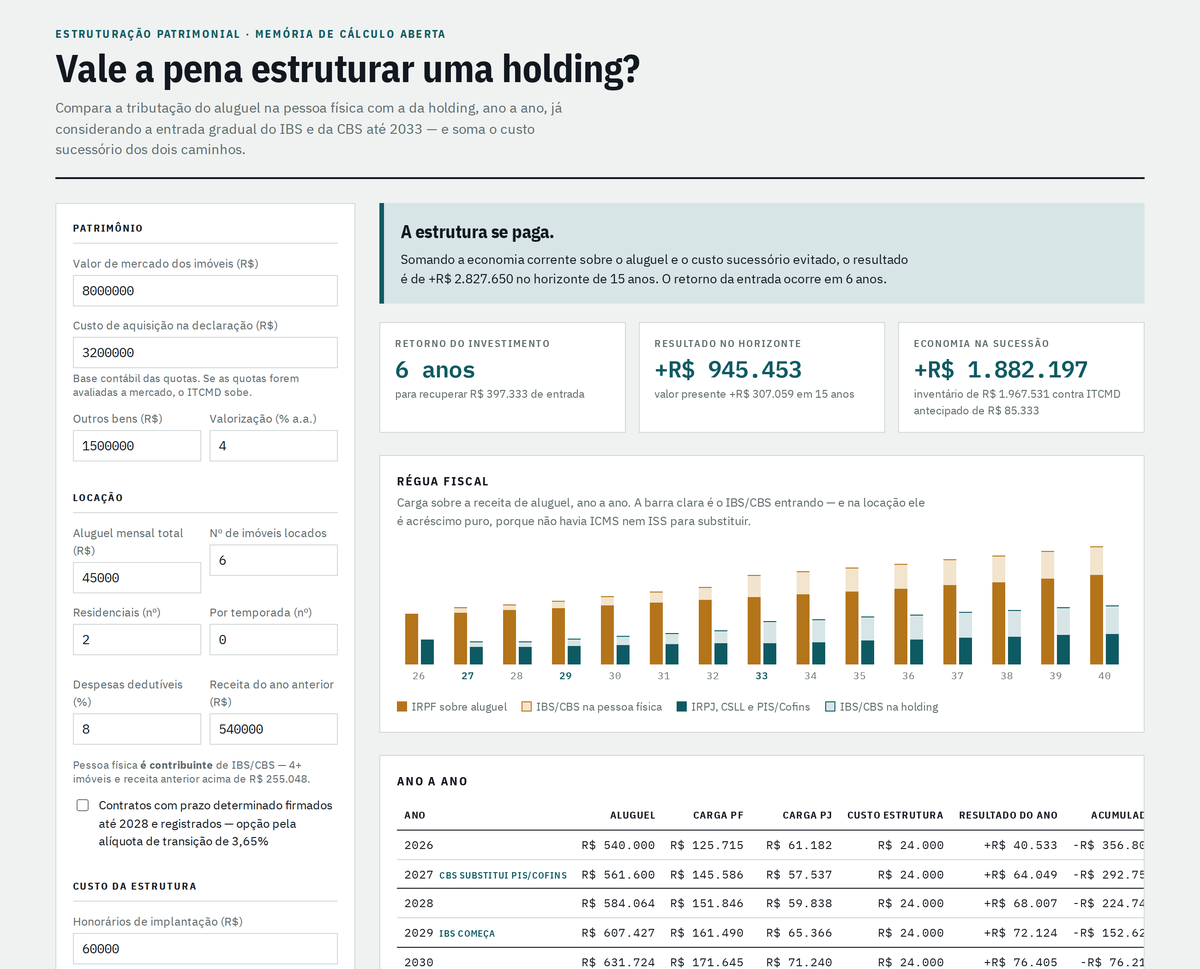
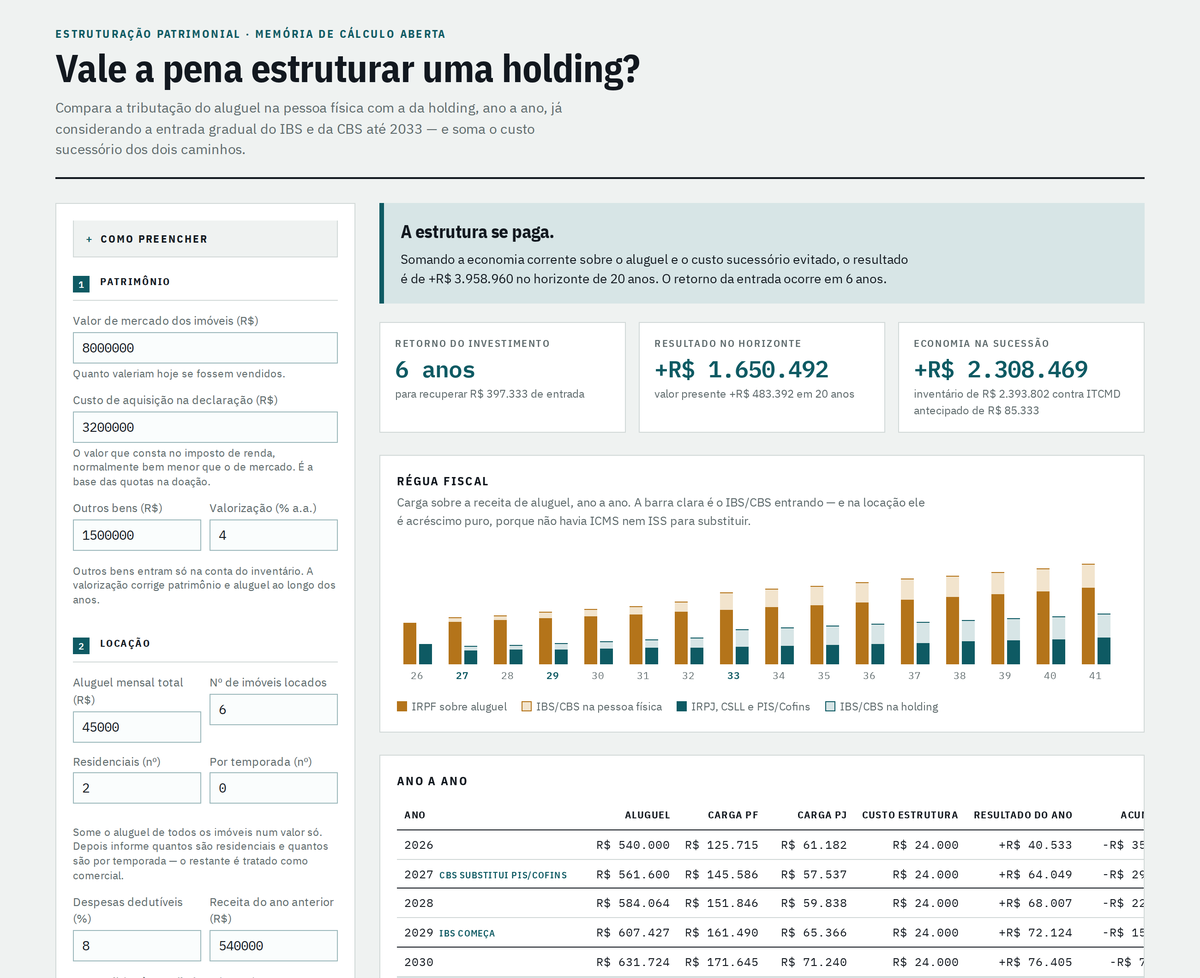
Guias e explicações dos campos

diff --git a/index.html b/index.html
@@ -71,13 +71,30 @@ legend{
   text-transform:uppercase;color:var(--ink);padding:0 0 8px;
   border-bottom:1px solid var(--rule);width:100%;margin-bottom:12px
 }
+legend .num{
+  display:inline-flex;align-items:center;justify-content:center;width:18px;height:18px;
+  background:var(--petrol);color:#fff;font-family:var(--mono);font-size:10px;font-weight:600;
+  margin-right:8px;vertical-align:-3px;letter-spacing:0
+}
 .field{margin-bottom:11px}
 .field label{display:block;font-size:12.5px;color:var(--muted);margin-bottom:3px}
 .field input[type=number],.field select{
-  width:100%;padding:7px 9px;border:1px solid var(--rule);background:var(--surface);
+  width:100%;padding:7px 9px;border:1px solid #9DB9BC;background:#FAFDFD;
   font-family:var(--mono);font-size:14px;color:var(--ink);border-radius:0
 }
 .field input:focus,.field select:focus{outline:2px solid var(--petrol);outline-offset:-1px}
+/* premissas: já vêm preenchidas, aparência neutra */
+fieldset.preset legend .num{background:var(--muted)}
+fieldset.preset .field input{border:1px dashed var(--rule);background:var(--paper);color:var(--muted)}
+fieldset.preset .field input:focus{color:var(--ink);background:var(--surface)}
+.presetnote{
+  font-size:12px;color:var(--muted);background:var(--paper);
+  border-left:3px solid var(--rule);padding:8px 10px;margin:0 0 12px;line-height:1.4
+}
+.guide{margin:0 0 18px;border:1px solid var(--rule);background:var(--paper);padding:11px 13px}
+.guide summary{font-family:var(--cond);font-weight:700;font-size:11.5px;letter-spacing:.1em;text-transform:uppercase}
+.guide ol{margin:10px 0 0;padding-left:20px;font-size:12.5px;color:var(--muted);line-height:1.55}
+.guide li{margin-bottom:6px}
 .duo{display:grid;grid-template-columns:1fr 1fr;gap:9px}
 .check{display:flex;gap:8px;align-items:flex-start;margin-bottom:10px;font-size:13px}
 .check input{margin-top:3px;accent-color:var(--petrol)}
@@ -166,16 +183,28 @@ footer{margin-top:28px;padding-top:16px;border-top:1px solid var(--rule);font-si
 <!-- ============ INPUTS ============ -->
 <form class="panel sticky" id="form" autocomplete="off">
 
+  <details class="guide">
+    <summary>Como preencher</summary>
+    <ol>
+      <li>Comece pelo <b>patrimônio</b> e pela <b>locação</b> — é o caso do cliente.</li>
+      <li>Ajuste o <b>custo da estrutura</b> com o que o escritório cobraria.</li>
+      <li>Confira a <b>alíquota de ITBI</b> do município dos imóveis e o <b>ITCMD</b> do estado.</li>
+      <li>As <b>premissas fiscais</b> já vêm preenchidas — só mexa se tiver motivo.</li>
+      <li>O resultado atualiza sozinho a cada mudança. Não há botão de calcular.</li>
+    </ol>
+  </details>
+
   <fieldset>
-    <legend>Patrimônio</legend>
+    <legend><span class="num">1</span> Patrimônio</legend>
     <div class="field">
       <label>Valor de mercado dos imóveis (R$)</label>
       <input type="number" id="imoveis" value="8000000" step="10000">
+      <p class="hint">Quanto valeriam hoje se fossem vendidos.</p>
     </div>
     <div class="field">
       <label>Custo de aquisição na declaração (R$)</label>
       <input type="number" id="custoAquisicao" value="3200000" step="10000">
-      <p class="hint">Base contábil das quotas. Se as quotas forem avaliadas a mercado, o ITCMD sobe.</p>
+      <p class="hint">O valor que consta no imposto de renda, normalmente bem menor que o de mercado. É a base das quotas na doação.</p>
     </div>
     <div class="duo">
       <div class="field">
@@ -187,10 +216,11 @@ footer{margin-top:28px;padding-top:16px;border-top:1px solid var(--rule);font-si
         <input type="number" id="valoriz" value="4" step="0.5">
       </div>
     </div>
+    <p class="hint">Outros bens entram só na conta do inventário. A valorização corrige patrimônio e aluguel ao longo dos anos.</p>
   </fieldset>
 
   <fieldset>
-    <legend>Locação</legend>
+    <legend><span class="num">2</span> Locação</legend>
     <div class="duo">
       <div class="field">
         <label>Aluguel mensal total (R$)</label>
@@ -212,6 +242,7 @@ footer{margin-top:28px;padding-top:16px;border-top:1px solid var(--rule);font-si
       </div>
     </div>
     <p class="hint" id="avisoImoveis"></p>
+    <p class="hint">Some o aluguel de todos os imóveis num valor só. Depois informe quantos são residenciais e quantos são por temporada — o restante é tratado como comercial.</p>
     <div class="duo">
       <div class="field">
         <label>Despesas dedutíveis (%)</label>
@@ -230,10 +261,11 @@ footer{margin-top:28px;padding-top:16px;border-top:1px solid var(--rule);font-si
   </fieldset>
 
   <fieldset>
-    <legend>Custo da estrutura</legend>
+    <legend><span class="num">3</span> Custo da estrutura</legend>
     <div class="field">
       <label>Honorários de implantação (R$)</label>
       <input type="number" id="honorarios" value="60000" step="1000">
+      <p class="hint">O que o escritório cobra para desenhar e constituir tudo: contrato social, integralização dos imóveis, doação das quotas e acordo de sócios. Pagamento único, no início.</p>
     </div>
     <div class="duo">
       <div class="field">
@@ -245,18 +277,21 @@ footer{margin-top:28px;padding-top:16px;border-top:1px solid var(--rule);font-si
         <input type="number" id="mensal" value="2000" step="100">
       </div>
     </div>
+    <p class="hint">Registros: junta comercial, cartório de imóveis, certidões e emolumentos — também pagamento único. Mensalidade: contabilidade da holding e acompanhamento, todo mês, enquanto a estrutura existir.</p>
     <div class="field">
       <label>Alíquota de ITBI (%)</label>
       <input type="number" id="itbi" value="3" step="0.1">
+      <p class="hint">Imposto do município sobre a transferência dos imóveis para a holding. Costuma ficar entre 2% e 3% — confirme no município de cada imóvel.</p>
     </div>
     <label class="check">
       <input type="checkbox" id="preponderante" checked>
       <span>Atividade preponderantemente imobiliária — sem imunidade de ITBI na integralização</span>
     </label>
+    <p class="hint">Deixe marcado quando a holding vai viver de aluguel: nesse caso a imunidade constitucional não se aplica e o ITBI é devido. Costuma ser o maior item da entrada.</p>
   </fieldset>
 
   <fieldset>
-    <legend>Sucessão</legend>
+    <legend><span class="num">4</span> Sucessão</legend>
     <div class="duo">
       <div class="field">
         <label>ITCMD (%)</label>
@@ -277,21 +312,25 @@ footer{margin-top:28px;padding-top:16px;border-top:1px solid var(--rule);font-si
         <input type="number" id="honInv" value="6" step="0.5">
       </div>
     </div>
+    <p class="hint">ITCMD é o imposto do estado sobre herança e doação. Horizonte é em quantos anos se projeta a sucessão. Custas e honorários são o que se gasta no inventário, além do imposto — e desaparecem quando existe holding.</p>
     <div class="field">
       <label>Avaliação das quotas na doação</label>
       <select id="baseQuotas">
         <option value="contabil">Valor contábil (custo de aquisição)</option>
         <option value="mercado">Valor de mercado</option>
       </select>
+      <p class="hint">A premissa que mais muda o resultado. Alterne entre as duas para medir o risco.</p>
     </div>
     <label class="check">
       <input type="checkbox" id="usufruto" checked>
       <span>Doação da nua-propriedade com reserva de usufruto — base de 2/3</span>
     </label>
+    <p class="hint">Doando só a nua-propriedade e mantendo o usufruto, o ITCMD incide sobre 2/3 do valor. Na morte, a consolidação não gera nova cobrança.</p>
   </fieldset>
 
-  <fieldset>
-    <legend>Premissas fiscais</legend>
+  <fieldset class="preset">
+    <legend><span class="num">5</span> Premissas fiscais</legend>
+    <p class="presetnote">Estes campos já vêm com os valores correntes. Só altere se tiver motivo — e o resultado muda bastante.</p>
     <div class="duo">
       <div class="field">
         <label>Alíquota IBS+CBS (%)</label>
